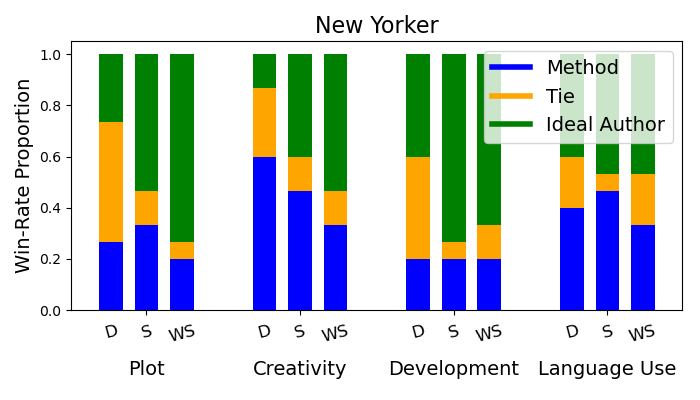
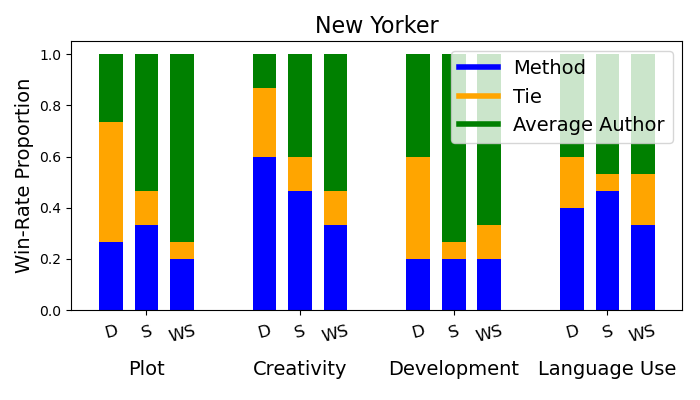
udpate plots

Changed region(s): [[0.63, 0.12, 0.96, 0.36]]

diff --git a/evaluation/consolidate_results.py b/evaluation/consolidate_results.py
@@ -103,7 +103,7 @@ def create_graph(method_source_wise_results, output_dir):
     # define method alias
     method_alias = {'delta_schema_persona': 'WS', 'schema_persona': 'S', 'delta': 'D'}
     # source alias
-    source_alias = {'Reddit.json': 'Reddit', 'AO3.json': 'AO3', 'Storium.json': 'Storium', 'narrativemagazine.json': 'Narrative Magazine', 'newyorker.json': 'New Yorker'}
+    source_alias = {'Reddit.json': 'Reddit', 'AO3.json': 'AO3', 'Storium.json': 'Storium', 'narrativemagazine.json': 'N.Magazine', 'newyorker.json': 'New Yorker'}
 
     save_dir = f'{output_dir}/graphs'
     if not os.path.exists(save_dir):
@@ -172,7 +172,7 @@ def create_graph(method_source_wise_results, output_dir):
         handles = [
             plt.Line2D([0], [0], color=common_colors['expts'], lw=4, label='Method'),
             plt.Line2D([0], [0], color=common_colors['Tie'], lw=4, label='Tie'),
-            plt.Line2D([0], [0], color=common_colors['vanilla'], lw=4, label='Ideal Author')
+            plt.Line2D([0], [0], color=common_colors['vanilla'], lw=4, label='Average Author')
         ]
         ax.legend(handles=handles, fontsize=14, loc='upper right')
 
